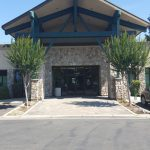
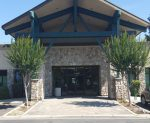
final changes - cropped images and adjusted the media small

diff --git a/style.css b/style.css
@@ -128,7 +128,7 @@ footer a {
 }
 @media (max-width: 576px) {
   .carousel-caption {
-    top: 30%;
+    top: 40%;
   }
 }
 
